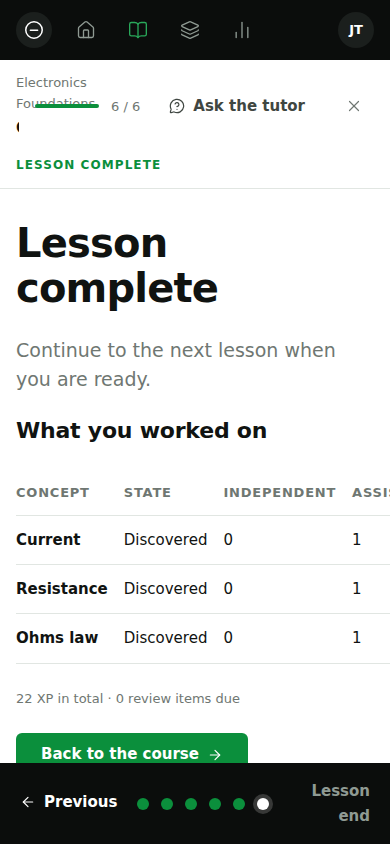
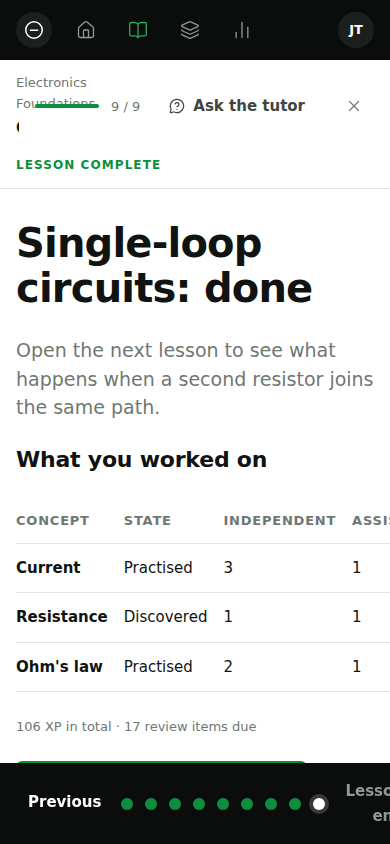
test: cover both courses end to end and recapture every screen
The browser suite gains a Roman Empire walk: the explainer's retrieved map,
asserted to have actually loaded and to be showing its attribution, then the
timeline scrubber and an ordering prediction, then the mockup's
multiple-choice question marked by the server, then a completion screen naming
concepts by their titles. The existing walk now answers all four questions of
the first lesson, which is what caught the stage state leaking between them.

The smoke test checks that every bundled course is listed, that the second
course delivers a retrieved image and a timeline, that a course asset is served
with an image content type, and that a percent-encoded traversal is refused.

Thirty-four screenshots recaptured at 1440x900 and 390x844, four of them from
the new course. The map and the timeline belong to consecutive stages of one
lesson, so they appear in two captures; no screen in the approved design shows
both at once.

Claude-Session: https://claude.ai/code/session_01GCcfuxyZYrwikkb6Na4Z5h

diff --git a/apps/web/e2e/journey.spec.ts b/apps/web/e2e/journey.spec.ts
@@ -1,5 +1,5 @@
 import { expect, test } from "@playwright/test";
-import { gotoStage, readJourney } from "./fixtures.js";
+import { gotoStage, readJourney, stageIdPath } from "./fixtures.js";
 
 const TEACH_BACK =
   "Voltage pushes charge around the loop and resistance limits how quickly that charge moves. " +
@@ -26,8 +26,9 @@ test.describe("the lesson journey", () => {
     await expect(page.getByText("Matched")).toBeVisible();
     await page.getByRole("button", { name: /^Continue/ }).click();
 
-    // Quiz: a wrong answer, a hint, then the right answer
+    // First question: a wrong answer, a hint, then the right answer
     await expect(page.getByText("Check understanding")).toBeVisible();
+    await expect(page.getByText("Question 1 of 4")).toBeVisible();
     await page.getByLabel("Value").fill("0.5");
     await page.getByLabel("Unit").fill("A");
     await page.getByRole("button", { name: "Check answer" }).click();
@@ -38,6 +39,32 @@ test.describe("the lesson journey", () => {
 
     await page.getByLabel("Value").fill("0.05");
     await page.getByRole("button", { name: "Check again" }).click();
+    await expect(page.getByText("Correct", { exact: true })).toBeVisible();
+    await page.getByRole("button", { name: /^Continue/ }).click();
+
+    // Second question: the same numeric surface with different values
+    await expect(page.getByText("Question 2 of 4")).toBeVisible();
+    await page.getByLabel("Value").fill("0.04");
+    await page.getByLabel("Unit").fill("A");
+    await page.getByRole("button", { name: "Check answer" }).click();
+    await expect(page.getByText("Correct", { exact: true })).toBeVisible();
+    await page.getByRole("button", { name: /^Continue/ }).click();
+
+    // Third question: a written response marked against the accepted ideas
+    await expect(page.getByText("Question 3 of 4")).toBeVisible();
+    await page
+      .getByLabel("Your answer")
+      .fill(
+        "There is only one path, so the same current passes every point. The charge is not used up by the resistor.",
+      );
+    await page.getByRole("button", { name: "Check answer" }).click();
+    await expect(page.getByText("Correct", { exact: true })).toBeVisible();
+    await page.getByRole("button", { name: /^Continue/ }).click();
+
+    // Fourth question: a selection
+    await expect(page.getByText("Question 4 of 4")).toBeVisible();
+    await page.getByRole("button", { name: "Raising the supply voltage" }).click();
+    await page.getByRole("button", { name: "Check answer" }).click();
     await expect(page.getByText("Correct", { exact: true })).toBeVisible();
     await page.getByRole("button", { name: /^Continue/ }).click();
 
@@ -60,7 +87,7 @@ test.describe("the lesson journey", () => {
     await page.getByRole("button", { name: /^Continue/ }).click();
 
     // Completion
-    await expect(page.getByRole("heading", { level: 1, name: /Lesson complete/ })).toBeVisible();
+    await expect(page.getByRole("heading", { level: 1, name: /done/ })).toBeVisible();
     await expect(page.getByRole("table")).toBeVisible();
   });
 
@@ -178,5 +205,60 @@ test.describe("the lesson journey", () => {
     );
     expect(overflow).toBeLessThanOrEqual(1);
     await expect(page.getByRole("navigation", { name: "Lesson stages" })).toBeVisible();
+  });
+  test("walks a Roman Empire lesson from its retrieved map to completion", async ({
+    page,
+    request,
+  }) => {
+    const journey = await readJourney(request, "roman-empire");
+
+    // Explainer: a retrieved image, with the attribution its licence requires beside it.
+    await gotoStage(page, journey, "explainer");
+    await expect(
+      page.getByRole("heading", { level: 1, name: "The rise of the Roman Empire" }),
+    ).toBeVisible();
+    const map = page.getByRole("img", { name: /Roman Empire at its greatest extent/i });
+    await expect(map).toBeVisible();
+    await expect(map).toHaveAttribute("src", /\/api\/content\/roman-empire\/assets\//);
+    await expect(page.getByText(/Tataryn/)).toBeVisible();
+    await expect(page.getByRole("link", { name: "CC BY-SA 3.0" })).toBeVisible();
+    // The picture must actually load, not merely be referenced.
+    expect(await map.evaluate((element: HTMLImageElement) => element.naturalWidth)).toBeGreaterThan(
+      0,
+    );
+    await page.getByRole("button", { name: "Continue", exact: true }).click();
+
+    // Timeline: the scrubber reveals events in date order and checks an ordering prediction.
+    await expect(page.getByText("Diagram / visual")).toBeVisible();
+    await expect(page.getByRole("slider", { name: "Year" })).toBeVisible();
+    await expect(page.getByText("509 BCE").first()).toBeVisible();
+    await expect(page.getByText("117 CE").first()).toBeVisible();
+    await page.getByRole("slider", { name: "Year" }).fill("-27");
+    await expect(page.getByText("Octavian becomes Augustus").first()).toBeVisible();
+    // The earlier of the two offered events, recomputed by the engine from their dates.
+    await page.getByRole("button", { name: "Caesar crosses the Rubicon" }).click();
+    await page.getByRole("button", { name: "Check prediction" }).click();
+    await expect(page.getByText("Matched")).toBeVisible();
+    await page.getByRole("button", { name: /^Continue/ }).click();
+
+    // The mockup's multiple-choice question, marked by the server.
+    await expect(page.getByText("Check understanding")).toBeVisible();
+    await expect(
+      page.getByRole("heading", { name: /Which event marked the transition/ }),
+    ).toBeVisible();
+    await page
+      .getByRole("button", { name: "The Senate granted Octavian the name Augustus in 27 BCE" })
+      .click();
+    await page.getByRole("button", { name: "Check answer" }).click();
+    await expect(page.getByText("Correct", { exact: true })).toBeVisible();
+
+    // Completion names the concepts by their titles rather than by their identifiers.
+    const completionStageId = journey.stageIds.at(-1);
+    expect(completionStageId).toBeTruthy();
+    await page.goto(stageIdPath(journey, completionStageId ?? ""));
+    await expect(page.getByRole("heading", { level: 1, name: /done/ })).toBeVisible();
+    await expect(
+      page.getByRole("rowheader", { name: "Augustus and the principate" }),
+    ).toBeVisible();
   });
 });

diff --git a/apps/web/e2e/fixtures.ts b/apps/web/e2e/fixtures.ts
@@ -4,19 +4,26 @@ export interface JourneyMap {
   courseId: string;
   lessonId: string;
   stageIdByType: Record<string, string>;
+  /** Every stage id in order, so a test can reach a later stage of the same type. */
+  stageIds: string[];
 }
 
 /**
  * Reads the journey from the API instead of hard-coding stage identifiers, so the browser
  * tests keep working when Phase 3 content changes the stage list.
  */
-export async function readJourney(request: APIRequestContext): Promise<JourneyMap> {
+export async function readJourney(
+  request: APIRequestContext,
+  courseId?: string,
+): Promise<JourneyMap> {
   const courses = await request.get("/api/courses");
   const courseBody = (await courses.json()) as {
     courses: Array<{ id: string; availableLessonIds: string[] }>;
   };
-  const course = courseBody.courses[0];
-  if (!course) throw new Error("The course list was empty.");
+  const course = courseId
+    ? courseBody.courses.find((item) => item.id === courseId)
+    : courseBody.courses[0];
+  if (!course) throw new Error(`The course list did not contain ${courseId ?? "any course"}.`);
   const lessonId = course.availableLessonIds[0];
   if (!lessonId) throw new Error("No lesson is available.");
 
@@ -28,7 +35,17 @@ export async function readJourney(request: APIRequestContext): Promise<JourneyMa
   for (const stage of journeyBody.stages) {
     stageIdByType[stage.type] ??= stage.id;
   }
-  return { courseId: course.id, lessonId, stageIdByType };
+  return {
+    courseId: course.id,
+    lessonId,
+    stageIdByType,
+    stageIds: journeyBody.stages.map((stage) => stage.id),
+  };
+}
+
+/** The address of one stage by its identifier, for a stage a test reaches directly. */
+export function stageIdPath(journey: JourneyMap, stageId: string): string {
+  return `/courses/${encodeURIComponent(journey.courseId)}/lessons/${encodeURIComponent(journey.lessonId)}/stages/${encodeURIComponent(stageId)}`;
 }
 
 export function stagePath(journey: JourneyMap, type: string): string {

diff --git a/apps/web/e2e/screenshots.spec.ts b/apps/web/e2e/screenshots.spec.ts
@@ -83,6 +83,24 @@ test.describe("approved reference screens", () => {
       await gotoStage(page, journey, "explainer");
       await page.getByRole("button", { name: "Ask the tutor" }).click();
       await capture("tutor-panel");
+
+      // The second course, which is what proves the interface is not shaped around one subject.
+      const roman = await readJourney(request, "roman-empire");
+      await page.goto(`/courses/${encodeURIComponent(roman.courseId)}`);
+      await capture("roman-course");
+
+      await gotoStage(page, roman, "explainer");
+      await expect(page.getByRole("img", { name: /Roman Empire/i })).toBeVisible();
+      await capture("roman-explainer");
+
+      await gotoStage(page, roman, "interactive_visual");
+      await page.getByRole("slider", { name: "Year" }).fill("-27");
+      await page.getByRole("button", { name: "Caesar crosses the Rubicon" }).click();
+      await page.getByRole("button", { name: "Check prediction" }).click();
+      await capture("roman-timeline");
+
+      await gotoStage(page, roman, "quiz");
+      await capture("roman-quiz");
     });
   }
 });

diff --git a/docs/implementation-status.md b/docs/implementation-status.md
@@ -204,10 +204,99 @@ Deferred from this round: the notebook and the workings-review handoff have no p
 shell yet. Their server endpoints and contracts are untouched, so the tools return when the
 notebook route is designed.
 
+## Content pipeline and a second subject — 19 August 2026
+
+Phase 3. Discere went from one subject with two lessons to two courses with eight, and gained the
+authoring pipeline that produced part of them.
+
+### Authoring pipeline
+
+- `pnpm author` (`scripts/author.ts`): `generate`, `lint`, `validate`, `review`, `merge`, and a
+  `pipeline` command that runs the chain end to end
+- generation spawns the local Codex CLI with `prompts/lesson-writer.md` and a JSON Schema derived
+  from `AuthoredLessonDraftSchema`, at `DISCERE_CODEX_EFFORT=medium`
+- raw model output is cached in `content/<course>/generated/`, ignored by Git, so nothing is
+  regenerated needlessly
+- one targeted style-editor repair pass per failing field, followed by a semantic preservation
+  check that discards a repair which moved a number, unit, equation, or citation
+- a human-readable review file per generated item in `content/<course>/review/`, committed as the
+  decision record
+- `merge` refuses to write unless the whole bundle revalidates
+- documented in [`authoring-pipeline.md`](authoring-pipeline.md)
+
+### Curriculum validation
+
+- flashcards and essay topics are first-class bundle collections with their own referential and
+  prose checks
+- a selectable question must be marked by exactly one of its options, checked by running the real
+  text assessor over every option
+- an accepted idea for a written answer must be a matchable phrase rather than a sentence
+- numeric questions must carry a three-step hint ladder
+- at most 35% of a course's questions may be multiple choice
+- a bundled image must carry a redistributable licence, an attribution naming its creator, and a
+  file that is actually on disk
+- material no lesson reaches is reported as a warning
+
+### Content
+
+- Electronics Foundations: 5 lessons, 20 questions (10 numeric, 6 written, 4 multiple choice),
+  10 authored flashcards, 5 activities. Every numeric answer was recomputed from the physics.
+- The Rise of the Roman Empire: 3 lessons, 13 questions, 8 flashcards, 2 essay topics, 3 timeline
+  activities, 3 retrieved images. Every date checked against its cited source.
+- lesson 2 of the electronics course is reachable at last: the series explorer had been in the
+  activity engine and unreachable since it was written
+
+### Activities and visuals
+
+- `parallel_circuit_explorer` in `@discere/activity-engine`, with conductances added and branch
+  currents reported
+- `timeline_explorer`: a scrubbed horizontal track whose markers light as the year advances, with
+  an ordering prediction whose answer is recomputed from the event dates rather than stored
+- `scripts/retrieve-images.ts` retrieves from the Wikimedia Commons API, accepts only public
+  domain, CC0, CC BY, or CC BY-SA, and records landing page, creator, licence, attribution,
+  retrieval date, and a content hash
+- `GET /api/content/:courseId/assets/*` serves course images read-only, resolving inside the
+  course directory and refusing anything that escapes it
+- the web renders a retrieved image with its caption and a visible attribution line
+
+### Server
+
+- `ContentRepository` scans `content/` and loads every bundle; no course identifier is written
+  into the server
+- start-up refuses two bundles that define the same identifier, because identifiers reach the API
+  without a course prefix
+- the journey is built from the lesson's own data: one quiz stage per question it asks, an essay
+  stage only when it names one, and the takeaway, review label, next action, and stage titles all
+  authored rather than hardcoded
+- `/api/courses` lists every course; course detail carries concept titles, which `/progress` and
+  the completion screen now show instead of humanised identifiers
+- home continues the most recently worked course, defaulting to the first
+- the transfer challenge belongs to the question that offers it, instead of one electronics case
+  applied to every subject
+- assessment feedback is subject-neutral
+- the review queue is fed by the authored flashcards of every course
+
+### Fixed
+
+- moving between two quiz stages carried the first stage's answer, hints, and result into the
+  second. Stage views are now keyed by stage id, so each stage starts clean. The bug could not
+  appear while a lesson had a single question.
+- `/api/visuals/circuit.svg` drew the current lesson's circuit whatever lesson asked for it. It
+  now takes an explicit `lessonId`, or renders the single-resistor loop the query describes.
+- concept progress opened only the very first concept in the library. A concept with no
+  prerequisites is now available, which stays correct with more than one course.
+
+### Verification
+
+`pnpm check`, `pnpm build`, and `pnpm smoke` are green. The Playwright suite runs 12 tests,
+including a Roman Empire walk from the retrieved map through the timeline to a marked
+multiple-choice answer, and it asserts the image actually loads and its attribution is shown.
+Thirty-four screenshots at 1440×900 and 390×844 were recaptured, four of them from the new
+course.
+
 ## Deliberately deferred
 
 - direct ChatGPT MCP transport, pending host compatibility testing
-- automated image retrieval and licence verification
 - generated-image return from ChatGPT into the local workspace
 - automatic in-app handwriting recognition without the ChatGPT handoff
 - persistence of image-review history and formal mastery evidence from reviewed workings

diff --git a/docs/ui-ux/screenshots/README.md b/docs/ui-ux/screenshots/README.md
@@ -77,12 +77,21 @@ Each screen is captured at 1440×900 and 390×844. The file name is `<screen>-<w
 | Flashcard            | `flashcard`          | `/review/session/:sessionId`                           |
 | Progress             | `progress`           | `/progress`                                            |
 | Tutor drawer         | `tutor-panel`        | explainer stage with the tutor drawer open             |
+| Roman course         | `roman-course`       | `/courses/roman-empire`                                |
+| Roman explainer      | `roman-explainer`    | Roman lesson 1 explainer, with the retrieved map        |
+| Roman timeline       | `roman-timeline`     | Roman lesson 1 activity, after a checked prediction     |
+| Roman quiz           | `roman-quiz`         | Roman lesson 1 first question, a selection              |
 
 Stage identifiers are read from the journey API at run time, so the suite keeps working when
 content changes the stage list.
 
 The interactive-visual capture moves the resistance slider before predicting, so the feedback it
-shows is a real comparison rather than a circuit that never changed.
+shows is a real comparison rather than a circuit that never changed. The Roman timeline capture
+drags the scrubber to 27 BCE and checks an ordering prediction, for the same reason.
+
+The map and the timeline belong to two consecutive stages of the same lesson, so they appear in
+`roman-explainer` and `roman-timeline` rather than in one image. There is no screen in the
+approved design that shows both at once.
 
 ## What to look for in review
 
